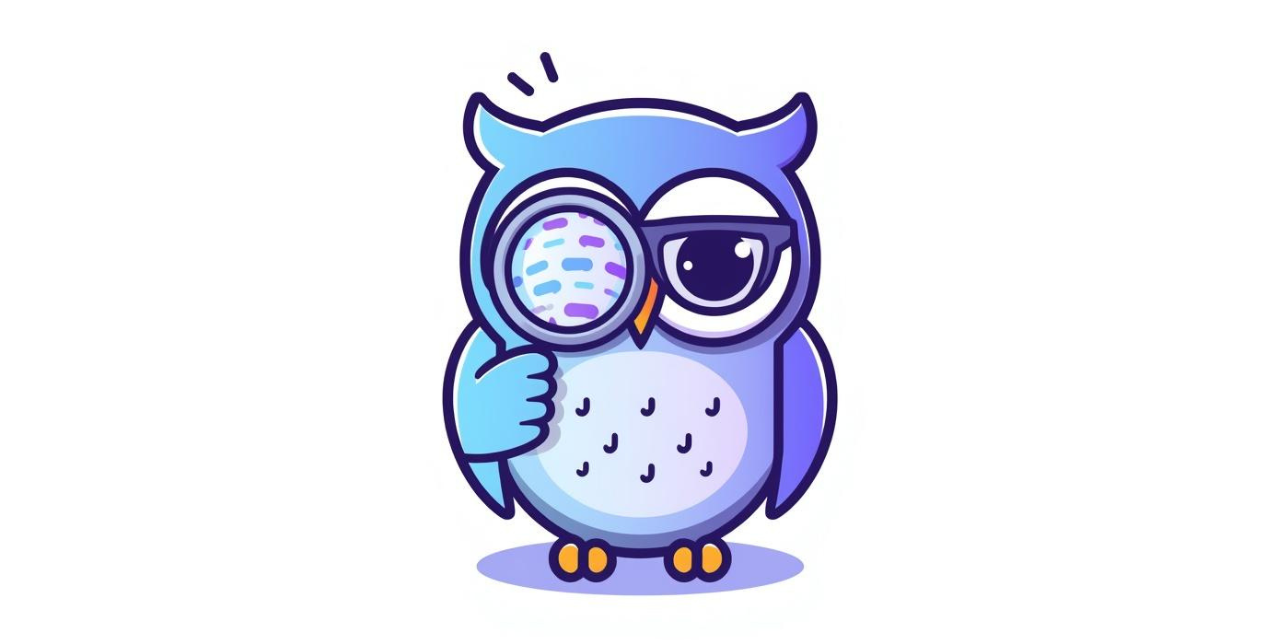
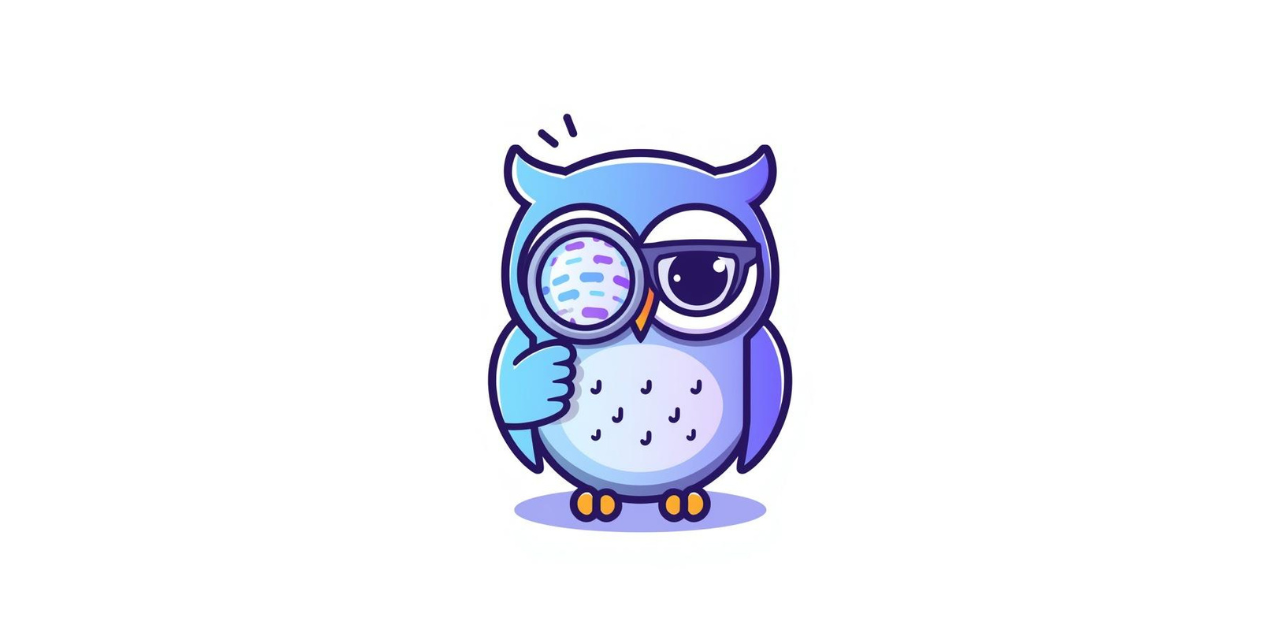
Feat/enhance main readme (#23)
* add threadlens cute mascot

* fix: main readme hero banner url

* update the hero image

* update the hero image (again lol)

* update the hero image (once last time)

* update main docs

Changed region(s): [[0.3438, 0.0625, 0.6562, 0.9375]]

diff --git a/README.md b/README.md
@@ -1,8 +1,16 @@
 ![Thread Lens](./docs/images/threadlens-readme-banner.png)
 
+<div align="center">
+
 # Thread Lens
 
-A multi-agent deep research tool for Reddit. Ask a question, and a coordinated team of AI agents searches Reddit to synthesize a comprehensive answer.
+Multi-agent deep research, sourced from Reddit.
+
+![CI](https://github.com/saintsauceee/thread-lens/actions/workflows/ci.yml/badge.svg)
+![Docker](https://img.shields.io/badge/docker%20compose-ready-blue?logo=docker)
+![License](https://img.shields.io/badge/license-MIT-green)
+
+</div>
 
 ## How it works
 
